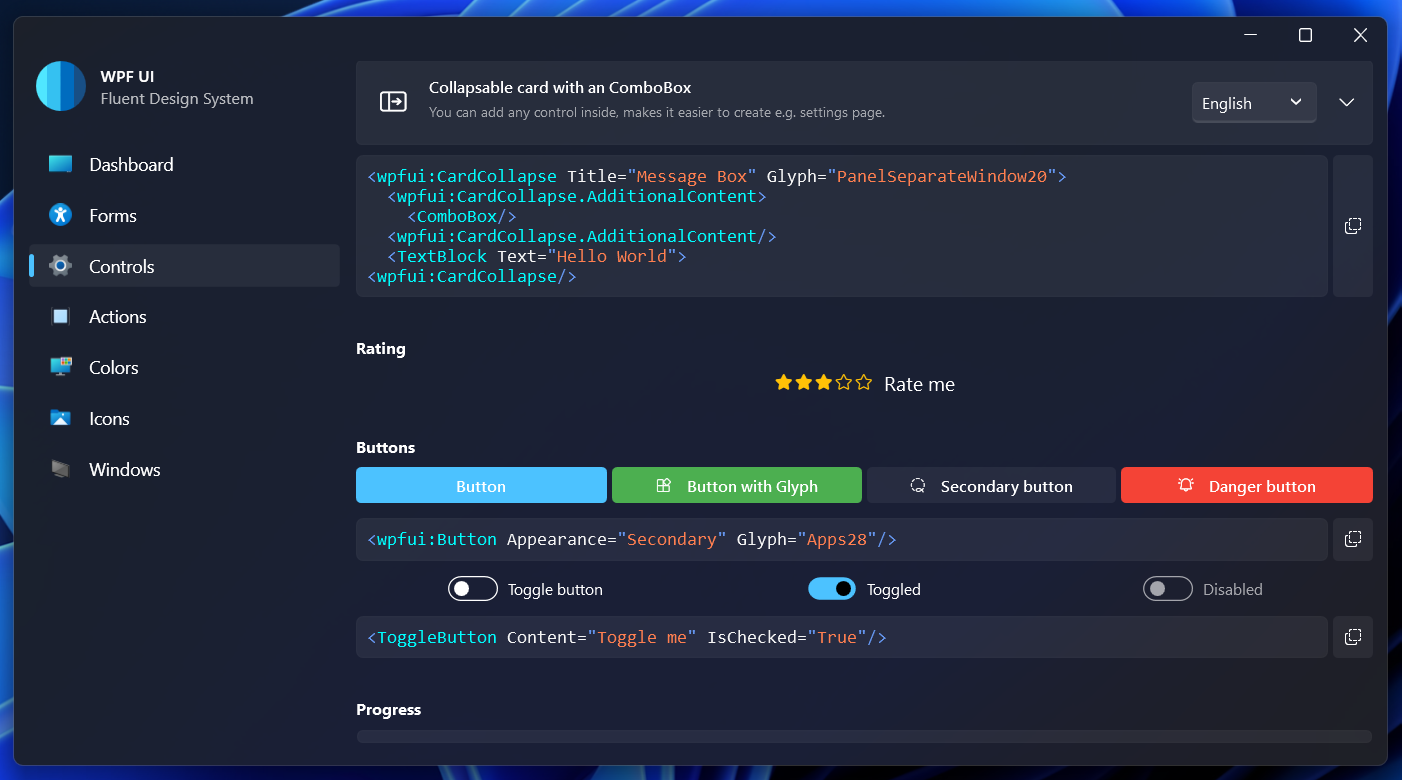
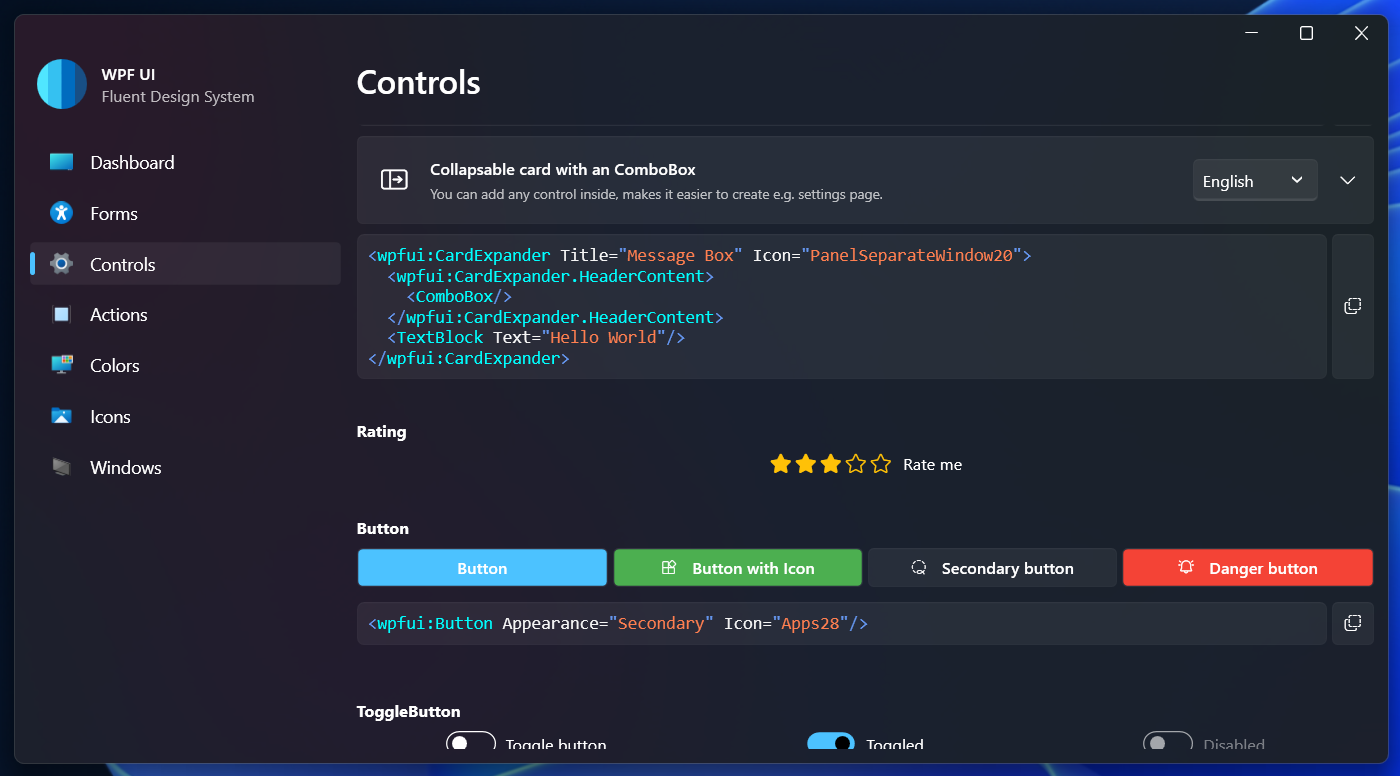
Update readme [-ci skip]

diff --git a/README.md b/README.md
@@ -24,28 +24,33 @@ A simple way to make your application written in WPF keep up with modern design 
 | --- | --- | --- |
 | **NumberBox** | [WPFUI.Controls](https://github.com/lepoco/wpfui/blob/main/WPFUI/Controls/NumberBox.cs) | Text field for entering numbers with the possibility of setting a mask. |
 | **Button** | [WPFUI.Controls](https://github.com/lepoco/wpfui/blob/main/WPFUI/Controls/Button.cs) | Custom button with additional parameters like an icon. |
+| **Card** | [WPFUI.Controls](https://github.com/lepoco/wpfui/blob/main/WPFUI/Controls/Card.cs) | Simple card compatible with the theme for displaying other elements. |
 | **CardAction** | [WPFUI.Controls](https://github.com/lepoco/wpfui/blob/main/WPFUI/Controls/CardAction.cs) | Inherited from the Button interactive card styled according to Fluent Design. |
-| **CardCollapse** | [WPFUI.Controls](https://github.com/lepoco/wpfui/blob/main/WPFUI/Controls/CardCollapse.cs) | Inherited from the ContentControl control which can hide the collapsable content. |
+| **CardExpander** | [WPFUI.Controls](https://github.com/lepoco/wpfui/blob/main/WPFUI/Controls/CardExpander.cs) | Inherited from the ContentControl control which can hide the collapsable content. |
 | **CardControl** | [WPFUI.Controls](https://github.com/lepoco/wpfui/blob/main/WPFUI/Controls/CardControl.cs) | Inherited from the Button control which displays an additional control on the right side of the card. |
 | **CardProfile** | [WPFUI.Controls](https://github.com/lepoco/wpfui/blob/main/WPFUI/Controls/CardProfile.cs) | Simple element that displays an image in a circular frame like in default applications for Windows 11. |
-| **CodeBlock** | [WPFUI.Controls](https://github.com/lepoco/wpfui/blob/main/WPFUI/Controls/CodeBlock.cs) | Formats and display a fragment of the source code. |
+| **CodeBlock** | [WPFUI.Controls](https://github.com/lepoco/wpfui/blob/main/WPFUI/Controls/CodeBlock.cs) | Formats syntax and display a fragment of the source code. |
 | **Dialog** | [WPFUI.Controls](https://github.com/lepoco/wpfui/blob/main/WPFUI/Controls/Dialog.cs) | Displays a large card with a slightly transparent background and two action buttons. |
 | **Snackbar** | [WPFUI.Controls](https://github.com/lepoco/wpfui/blob/main/WPFUI/Controls/Snackbar.cs) | Animated card with a notification displayed at the bottom of the application. |
 | **FontIcon** | [WPFUI.Controls](https://github.com/lepoco/wpfui/blob/main/WPFUI/Controls/FontIcon.cs) | Represents a text element containing an icon glyph with selectable font family. |
-| **Hyperlink** | [WPFUI.Controls](https://github.com/lepoco/wpfui/blob/main/WPFUI/Controls/Hyperlink.cs) | Button that opens a URL in a web browser. |
 | **Icon** | [WPFUI.Controls](https://github.com/lepoco/wpfui/blob/main/WPFUI/Controls/Icon.cs) | Represents a text element containing an icon glyph. |
+| **Hyperlink** | [WPFUI.Controls](https://github.com/lepoco/wpfui/blob/main/WPFUI/Controls/Hyperlink.cs) | Button that opens a URL in a web browser. |
 | **Navigation** | [WPFUI.Controls](https://github.com/lepoco/wpfui/blob/main/WPFUI/Controls/Navigation.cs) | Navigation styled as UWP apps. |
 | **NavigationStore** | [WPFUI.Controls](https://github.com/lepoco/wpfui/blob/main/WPFUI/Controls/NavigationStore.cs) | Navigation styled as Windows 11 Store app |
 | **NavigationFluent** | [WPFUI.Controls](https://github.com/lepoco/wpfui/blob/main/WPFUI/Controls/NavigationFluent.cs) | Navigation styled as Windows 11 Settings app. |
-| **TitleBar** | [WPFUI.Controls](https://github.com/lepoco/wpfui/blob/main/WPFUI/Controls/TitleBar.cs) | A set of buttons that can replace the default window navigation, giving it a new, modern look. |
+| **Breadcrumb** | [WPFUI.Controls](https://github.com/lepoco/wpfui/blob/main/WPFUI/Controls/Breadcrumb.cs) | Automatic display of the page title from the navigation in the application. |
+| **Rating** | [WPFUI.Controls](https://github.com/lepoco/wpfui/blob/main/WPFUI/Controls/Rating.cs) | Stars to display the rating. |
+| **MessageBox** | [WPFUI.Controls](https://github.com/lepoco/wpfui/blob/main/WPFUI/Controls/MessageBox.cs) | Custom window to display notifications outside the application. |
+| **TitleBar** | [WPFUI.Controls](https://github.com/lepoco/wpfui/blob/main/WPFUI/Controls/TitleBar.cs) | A set of buttons that can replace the default window navigation, giving it a new, modern look with implemented [NotifyIcon](https://github.com/lepoco/wpfui/blob/main/WPFUI/Tray/NotifyIcon.cs). |
 
 ## 🧩 Custom classes and tools
 | Class | Namespace | Description |
 | --- | --- | --- |
+| **Manager** | [WPFUI.Background](https://github.com/lepoco/wpfui/blob/main/WPFUI/Background/Manager.cs) | Allows to add background effects like Mica or Acrylic. |
 | **Manager** | [WPFUI.Theme](https://github.com/lepoco/wpfui/blob/main/WPFUI/Theme/Manager.cs) | Allows to manage available color themes from the library. |
 | **Watcher** | [WPFUI.Theme](https://github.com/lepoco/wpfui/blob/main/WPFUI/Theme/Watcher.cs) | Listens for **SystemParameters** changes while waiting for **StaticPropertyChanged** to change, then switches theme with **Manager.Switch**. |
 | **Progress** | [WPFUI.Taskbar](https://github.com/lepoco/wpfui/blob/main/WPFUI/Taskbar/Progress.cs) | Allows to change the status of the displayed notification in the application icon on the TaskBar. |
-| **Mica** | [WPFUI.Background](https://github.com/lepoco/wpfui/blob/main/WPFUI/Background/Mica.cs) | Mica is a material that appears on the backdrop of your application — behind all other content. |
+| **NotifyIcon** | [WPFUI.Tray](https://github.com/lepoco/wpfui/blob/main/WPFUI/Tray/NotifyIcon.cs) | It allows you to create an icon and a menu in the tray. |
 
 ## 🖌 XAML styles for use in the application.
 | Resource usage | Description |
